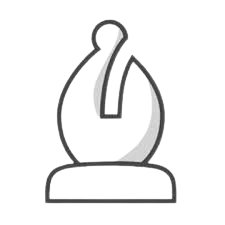
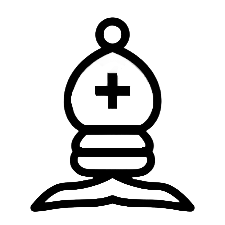
add a lot to interactive

Changed region(s): [[0.1244, 0.0622, 0.8711, 0.9644]]

diff --git a/interactive_assi/sketch.js b/interactive_assi/sketch.js
@@ -2,8 +2,13 @@
 // Tim Truong
 // Feb something
 //
+// info about the chess game:
+// what it has: white/black all_pieces, basic movement for all pieces
+//              pieces cant go through each other, any scale chess board
+// *Also if the black pieces looks off its cause i cant find any good image
+//              
 // Extra for Experts:
-// - describe what you did to take this project "above and beyond"
+// - make the chess board with the window scale
 
 
 let square_size;
@@ -15,10 +20,26 @@ let queenimg;
 let knightimg;
 let bishopimg;
 let rookimg;
-let all_pieces = [];
+
+let white_all_pieces = [];
+let black_all_pieces = [];
+
 let board_height;
 
-let white_king_pos;
+let knight_direction = [[-1,2],[1,2],[2,1],[2,-1],[1,-2],[-1,-2],[-2,-1],[-2,1]]
+let queen_direction = [[0,1],[1,1],[1,0],[1,-1],[0,-1],[-1,-1],[-1,0],[-1,1]]
+let bishop_direction = [[1,1], [-1,1], [-1,-1],[1,-1]]
+let rook_direction = [[0,1],[1,0],[0,-1],[-1,0]]
+
+let mouse_press_pos;
+let current_selected;
+let moving_eating;
+
+let can_go = false;
+let chess_path;
+
+let turn = false;
+
 function preload(){
   pawnimg = loadImage("assets/pawn.png");
   kingimg = loadImage("assets/king.png");
@@ -27,14 +48,20 @@ function preload(){
   bishopimg = loadImage("assets/bishop.png");
   rookimg = loadImage("assets/rook.png");
   
-
+  b_pawnimg = loadImage("assets/black_pawn.png");
+  b_kingimg = loadImage("assets/black_king.png");
+  b_queenimg = loadImage("assets/black_queen.png");
+  b_knightimg = loadImage("assets/black_knight.png");
+  b_bishopimg = loadImage("assets/black_bishop.png");
+  b_rookimg = loadImage("assets/black_rook.png");
+  
   
 }
 
 function setup() {
   createCanvas(windowWidth, windowHeight);
   check_widthorheight();
-  make_all_pieces();
+  all_pieces_initial();
   
 }
 
@@ -50,12 +77,15 @@ function draw() {
 }
 
 function make_board(){
-  for (let item of all_pieces){
+  for (let item of white_all_pieces){
     // image(item.img, item.x,item.y,square_size,square_size);
-    image(item.img, item.x, item.y,square_size,square_size);
-    
+    image(item.img, item.x * (board_height / 8) ,item.y * (board_height / 8) ,square_size,square_size);
   }
 
+  for (let item of black_all_pieces){
+    // image(item.img, item.x,item.y,square_size,square_size);
+    image(item.img, item.x * (board_height / 8) ,item.y * (board_height / 8) ,square_size,square_size);
+  }
 }
 
 
@@ -84,32 +114,265 @@ function check_widthorheight(){
 }
 
 
-function make_all_pieces(){
+function all_pieces_initial(){
   // let pawn = (img = pawnimg, x = 0, y = width - width/8);
-  for (let amount = 8; amount >= 0; amount --){
-    print(board_height - board_height * amount);
-    append(all_pieces, {img : pawnimg, x : board_height - board_height / 8 * amount, y :  board_height - board_height / 8 * 2});
+  for (let amount = 7; amount >= 0; amount --){
+    append(white_all_pieces, {img : pawnimg, x : amount, y :  6, name: "pawn",pawn_go_pace : 2});
   }
   
-
   // let king = (img = kingimg, x = 0, y = width - width/8);
-  append(all_pieces, {img : kingimg, x : 0, y : 0 });
+  append(white_all_pieces, {img : kingimg, x : 4, y : 7 , name: "king"});
 
   // let queen = (img = queenimg, x = 0, y = width - width/8);
-  append(all_pieces, {img : queenimg, x : 0, y : 0});
+  append(white_all_pieces, {img : queenimg, x : 3, y : 7, name: "queen"});
 
   // let knight = (img = knightimg, x = 0, y = width - width/8);
-  append(all_pieces, {img : knightimg, x : 0, y : 0});
+  for (let amount = 1; amount >= 0; amount --){
+    append(white_all_pieces, {img : knightimg, x : amount*5 + 1, y : 7 , name: "knight"});
+  }
 
   // let bishop = ;
-  append(all_pieces, {img : bishopimg, x : 0, y : 0});
+  for (let amount = 1; amount >= 0; amount --){
+    append(white_all_pieces, {img : bishopimg, x : amount * 3 + 2, y : 7, name: "bishop"});
+  }
 
   // let rook = ;
-  for (let amount = 2; amount >= 0; amount --){
-    append(all_pieces, {img : rookimg, x : 0, y :board_height - board_height / 8});
+  for (let amount = 1; amount >= 0; amount --){
+    append(white_all_pieces, {img : rookimg, x : amount * 7 , y :7, name: "rook"});
+  }
+// -------------------------------------------------- make black piece
+
+// let pawn = (img = pawnimg, x = 0, y = width - width/8);
+  for (let amount = 7; amount >= 0; amount --){
+    append(black_all_pieces, {img : b_pawnimg, x : amount, y :  1, name: "pawn",pawn_go_pace : 2});
   }
   
+  // let king = (img = kingimg, x = 0, y = width - width/8);
+  append(black_all_pieces, {img : b_kingimg, x : 4, y : 0 , name: "king"});
+
+  // let queen = (img = queenimg, x = 0, y = width - width/8);
+  append(black_all_pieces, {img : b_queenimg, x : 3, y : 0, name: "queen"});
+
+  // let knight = (img = knightimg, x = 0, y = width - width/8);
+  for (let amount = 1; amount >= 0; amount --){
+    append(black_all_pieces, {img : b_knightimg, x : amount*5 + 1, y : 0 , name: "knight"});
+  }
+
+  // let bishop = ;
+  for (let amount = 1; amount >= 0; amount --){
+    append(black_all_pieces, {img : b_bishopimg, x : amount * 3 + 2, y : 0, name: "bishop"});
+  }
+
+  // let rook = ;
+  for (let amount = 1; amount >= 0; amount --){
+    append(black_all_pieces, {img : b_rookimg, x : amount * 7 , y :0, name: "rook"});
+  }
+}
   
+
+
+function mousePressed(){
+  mouse_press_pos = {x : floor(mouseX / (board_height / 8)), y : floor(mouseY/ (board_height / 8))};
+  if (current_selected){
+    can_go_eat();
+    // assuming there is no one to eat
+    if (can_go){
+      if (!turn){
+        let pos = white_all_pieces.indexOf(current_selected);
+        white_all_pieces[pos].x = mouse_press_pos.x;
+        white_all_pieces[pos].y = mouse_press_pos.y;
+        
+      }
+      else{
+        let pos = black_all_pieces.indexOf(current_selected);
+        black_all_pieces[pos].x = mouse_press_pos.x;
+        black_all_pieces[pos].y = mouse_press_pos.y;
+        
+      }
+      current_selected = null;
+      turn = !turn;
+      }
+    else{
+      current_selected = null;
+    }
+      
+
+  }
+  else{
+    selecting_piece();
+  }
 }
 
 
+
+function can_go_eat(){
+  chess_path = []
+  
+  if (current_selected.name === "pawn"){
+    
+    let black_or_white;
+    if (!turn){
+      
+      black_or_white = 1;
+      if (current_selected.y != 6){
+        current_selected.pawn_go_pace = 1
+        
+      }
+    }
+    else{
+      black_or_white = -1;
+      if (current_selected.y != 1){
+        current_selected.pawn_go_pace = -2;
+      }
+    }
+    
+    for (let length = black_or_white; length != current_selected.pawn_go_pace; length += black_or_white){
+      aiming_x = current_selected.x;
+      aiming_y = current_selected.y - length;
+      if (looping_through_all_piece_and_check(aiming_x,aiming_y)){
+        break;
+      }
+      else{
+        append(chess_path, {x :aiming_x, y:aiming_y})
+      }
+    }
+  }
+
+  else if (current_selected.name === "king"){
+    let dis_x = Math.abs(mouse_press_pos.x - current_selected.x)
+    let dis_y = Math.abs(mouse_press_pos.y - current_selected.y)
+    if (dis_x <= 1 && dis_y <= 1 && !(dis_x === 0 && dis_y === 0)){
+      for (let item of white_all_pieces){
+        if (item.x === mouse_press_pos.x && item.y === mouse_press_pos.y){
+          can_go = false;
+          break;
+        }
+        else{
+          can_go = true;
+        }
+      }
+      
+    }
+    else{
+      can_go = false;
+    }
+  }
+
+  else if (current_selected.name === "queen"){
+    
+    for (let [dir_x,dir_y] of queen_direction){
+      for (let length = 1; length <= 8; length ++){
+        aiming_x = current_selected.x + dir_x * length;
+        aiming_y = current_selected.y + dir_y * length;
+        if (looping_through_all_piece_and_check(aiming_x,aiming_y)){
+          break;
+        }
+        else{
+          append(chess_path, {x:aiming_x,y:aiming_y})
+        }
+      }
+    }
+  }
+
+  else if (current_selected.name === "knight"){
+    for (let [dir_x,dir_y] of knight_direction){
+      aiming_x = current_selected.x + dir_x;
+      aiming_y = current_selected.y + dir_y;
+
+      if (!looping_through_all_piece_and_check(aiming_x,aiming_y)){
+        append(chess_path, {x:aiming_x, y:aiming_y})
+      }
+      
+    }
+    check_chess_path_see_if_can_go();
+  }
+
+  else if (current_selected.name === "bishop"){
+    for (let [dir_x,dir_y] of bishop_direction){
+      for (let length = 1; length <= 8; length ++){
+        aiming_x = current_selected.x + dir_x * length;
+        aiming_y = current_selected.y + dir_y * length;
+        if (looping_through_all_piece_and_check(aiming_x,aiming_y)){
+          break;
+        }
+        else{
+          append(chess_path, {x:aiming_x,y:aiming_y})
+        }
+      }
+    }
+    
+  }
+
+  else if (current_selected.name === "rook"){
+    for (let [dir_x,dir_y] of rook_direction){
+      for (let length = 1; length <= 8; length ++){
+        aiming_x = current_selected.x + dir_x * length;
+        aiming_y = current_selected.y + dir_y * length;
+        if (looping_through_all_piece_and_check(aiming_x,aiming_y)){
+          break;
+        }
+        else{
+          append(chess_path, {x:aiming_x,y:aiming_y})
+        }
+      }
+    }
+  }
+  check_chess_path_see_if_can_go();
+}
+
+
+function selecting_piece(){
+  if (!turn){
+    for (let chess of white_all_pieces){
+      if (chess.x === mouse_press_pos.x && chess.y === mouse_press_pos.y){
+        current_selected = chess;
+        break;
+      }
+      else{
+        current_selected = null;
+      }
+    }
+  }
+  else{
+    for (let chess of black_all_pieces){
+      if (chess.x === mouse_press_pos.x && chess.y === mouse_press_pos.y){
+        current_selected = chess;
+        break;
+      }
+      else{
+        current_selected = null;
+      }
+    }
+  }
+    
+}
+
+function looping_through_all_piece_and_check(x,y){
+  for (let item of white_all_pieces){
+    if (item.x === x && item.y === y){
+      return true
+    }
+  }
+  return false
+}
+
+function check_chess_path_see_if_can_go(){
+  print(chess_path)
+  if (chess_path.length === 0){
+    can_go = false;
+  }
+  else{
+    for (let item of chess_path){
+      if (mouse_press_pos.x === item.x && mouse_press_pos.y === item.y){
+
+        can_go = true;
+        break;
+      }
+      else{
+        can_go = false;
+        print("here");
+      }
+    }
+  }
+  
+}

diff --git a/interactive_assi/index.html b/interactive_assi/index.html
@@ -5,7 +5,6 @@
     <meta name="viewport" content="width=device-width, initial-scale=1.0">
 
     <title>Sketch</title>
-    <script src="https://cdnjs.cloudflare.com/ajax/libs/p5.js/1.9.3/p5.js"></script>
     <link rel="stylesheet" type="text/css" href="style.css">
 
     <!-- Linking to the main p5.js library, which allows your code to use all 
